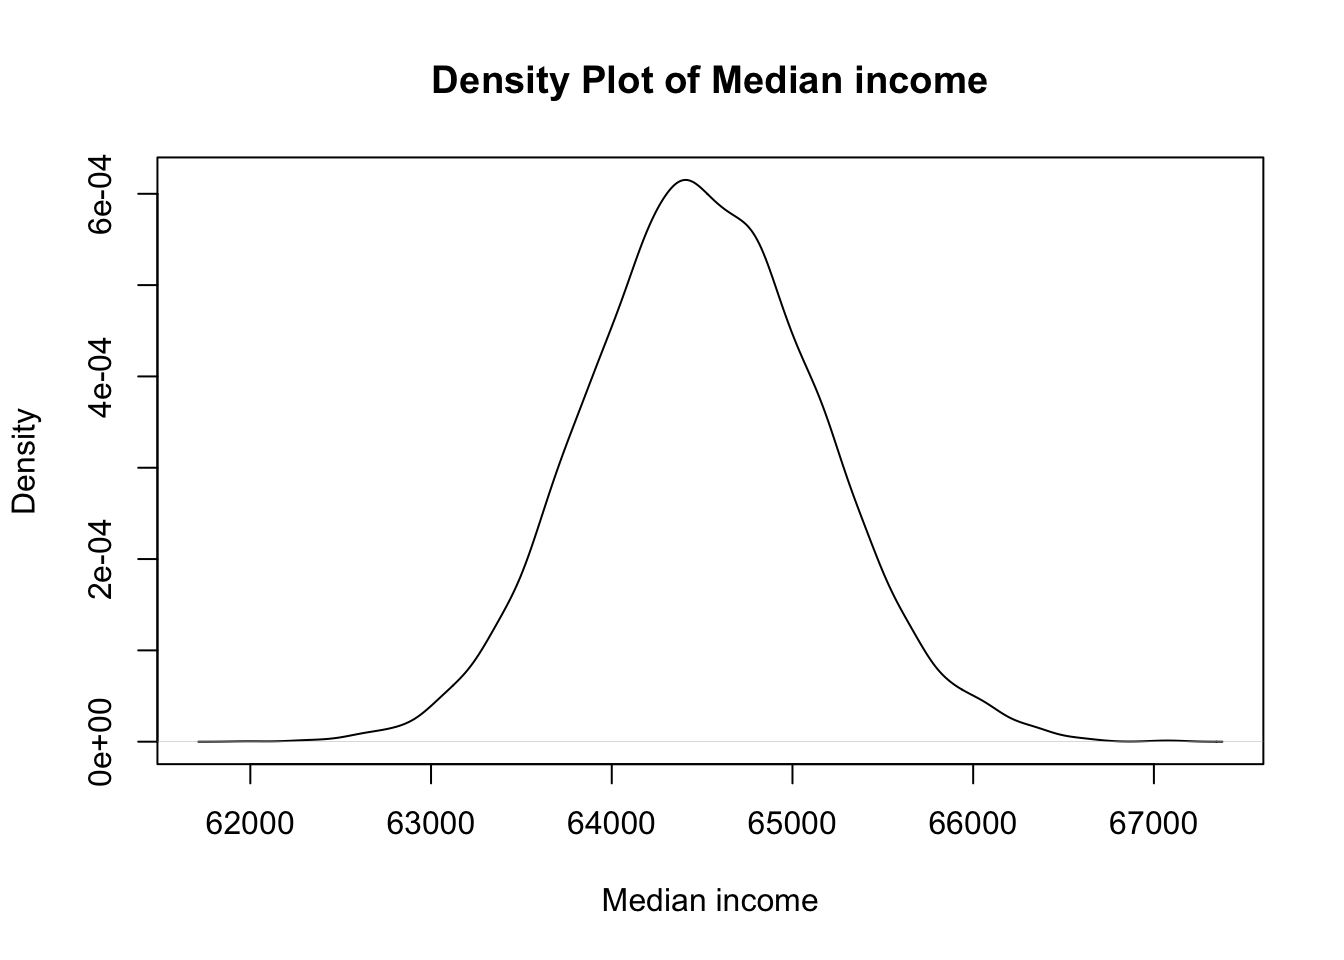
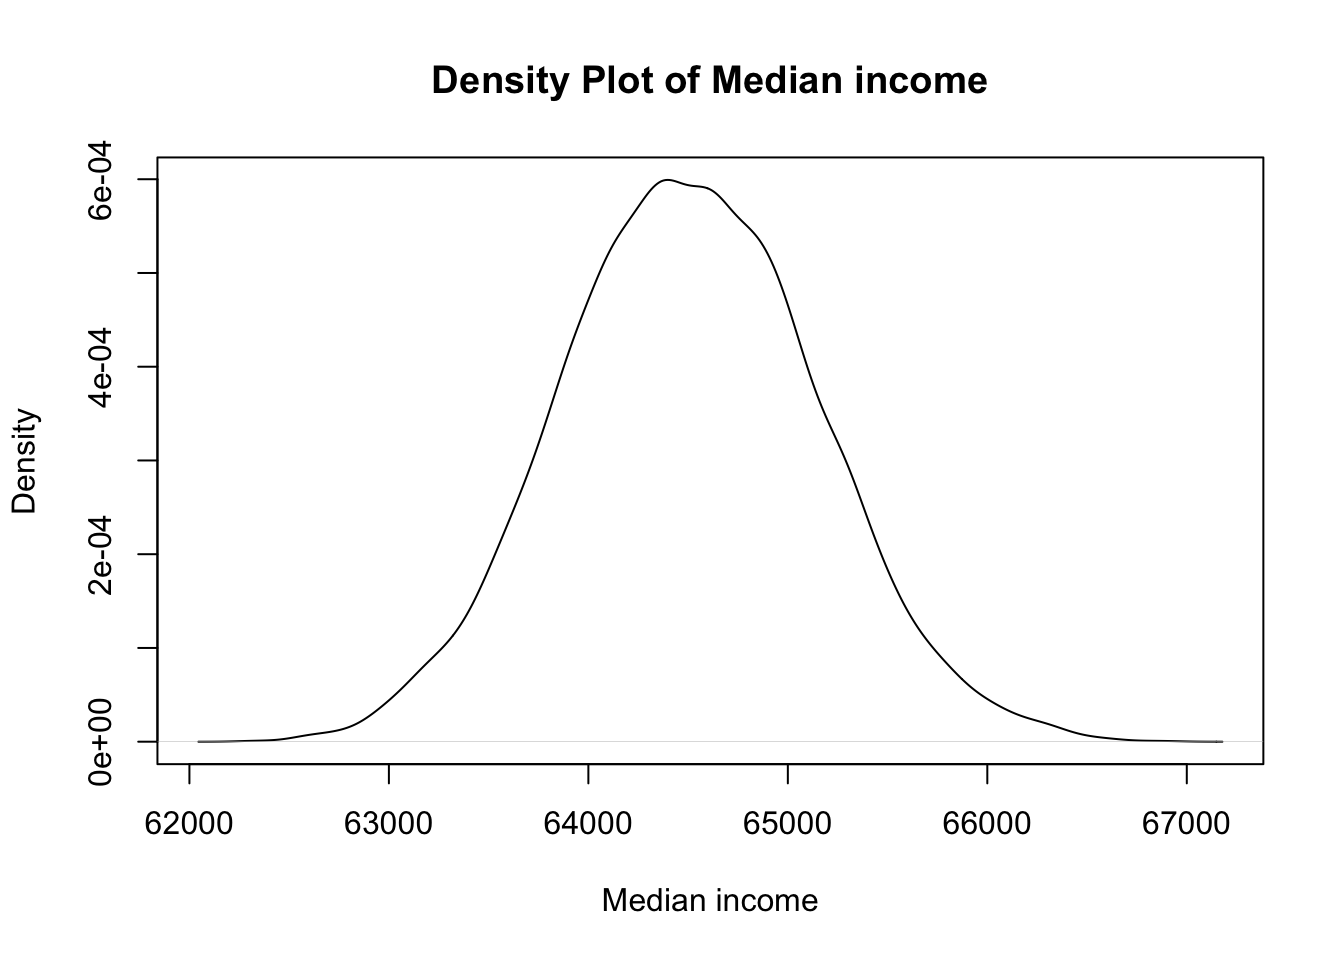
2141024

diff --git a/docs/posts/montecarlo.html b/docs/posts/montecarlo.html
@@ -1096,7 +1096,7 @@ Income distribution is not normal
 </details>
 <div class="cell-output cell-output-stdout">
 <pre><code>     Min.   1st Qu.    Median      Mean   3rd Qu.      Max. 
-   201844    294786    341414    550675    435124 169525336 </code></pre>
+   193207    296161    341864    629118    433338 396802978 </code></pre>
 </div>
 <details open="" class="code-fold">
 <summary>Code</summary>
@@ -1104,7 +1104,7 @@ Income distribution is not normal
 </details>
 <div class="cell-output cell-output-stdout">
 <pre><code>   Min. 1st Qu.  Median    Mean 3rd Qu.    Max. 
-  61989   64069   64495   64508   64938   67103 </code></pre>
+  62320   64065   64499   64505   64938   66903 </code></pre>
 </div>
 <details open="" class="code-fold">
 <summary>Code</summary>
@@ -1112,7 +1112,7 @@ Income distribution is not normal
 </details>
 <div class="cell-output cell-output-stdout">
 <pre><code>     Min.   1st Qu.    Median      Mean   3rd Qu.      Max. 
-9.701e+05 3.286e+06 5.586e+06 2.571e+07 1.174e+07 1.692e+10 </code></pre>
+6.672e+05 3.372e+06 5.607e+06 3.355e+07 1.158e+07 3.962e+10 </code></pre>
 </div>
 </div>
 </section>

diff --git a/docs/Catallactics/Personal/sequence1.html b/docs/Catallactics/Personal/sequence1.html
@@ -999,7 +999,7 @@ Tip
 <p>Sequence of return risk not only affects the TPV when we withdraw but also equally affects TPV when we are periodically adding money through SIPs.</p>
 </div>
 </div>
-<p>What if we withdraw or add a fixed percentage instead of a fixed amount? When exactly in your life cycle does sequence of return risk bites you most? see</p>
+<p>What if we withdraw or add a fixed percentage instead of a fixed amount? When exactly in your life cycle does sequence of return risk bites you most? see <a href="https://www.knotes.co.in/catallactics/personal/sequence2">sequence of return risk</a></p>
 
 
 

diff --git a/docs/Biomedical/Research Methodology/wrangling.html b/docs/Biomedical/Research Methodology/wrangling.html
@@ -2394,8 +2394,8 @@ Record
 1:     1     0  child
 2:     2     1  child
 3:     3     1  child
-4:     4     1  child
-5:     5     0  child
+4:     4     0  child
+5:     5     1  child
 6:     6     0  child</code></pre>
 </div>
 </div>
@@ -2417,8 +2417,8 @@ Record
 1:     1  child   &lt;NA&gt;
 2:     2   &lt;NA&gt;  child
 3:     3   &lt;NA&gt;  child
-4:     4   &lt;NA&gt;  child
-5:     5  child   &lt;NA&gt;
+4:     4  child   &lt;NA&gt;
+5:     5   &lt;NA&gt;  child
 6:     6  child   &lt;NA&gt;</code></pre>
 </div>
 </div>

diff --git a/docs/Revision notes/Diagrams/diagrams.html b/docs/Revision notes/Diagrams/diagrams.html
@@ -1386,7 +1386,7 @@ window.document.addEventListener("DOMContentLoaded", function (event) {
 </div>
   </div>
 </footer>
-<script>var lightboxQuarto = GLightbox({"closeEffect":"zoom","loop":false,"descPosition":"bottom","selector":".lightbox","openEffect":"zoom"});
+<script>var lightboxQuarto = GLightbox({"descPosition":"bottom","selector":".lightbox","closeEffect":"zoom","openEffect":"zoom","loop":false});
 (function() {
   let previousOnload = window.onload;
   window.onload = () => {
